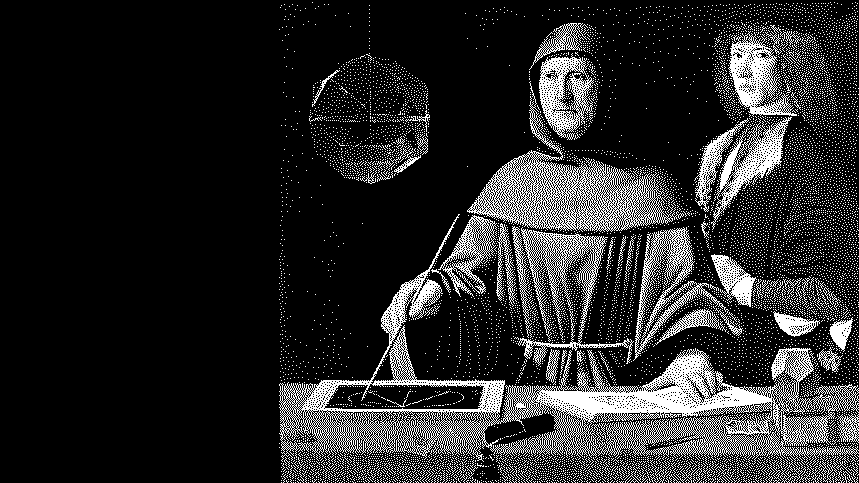
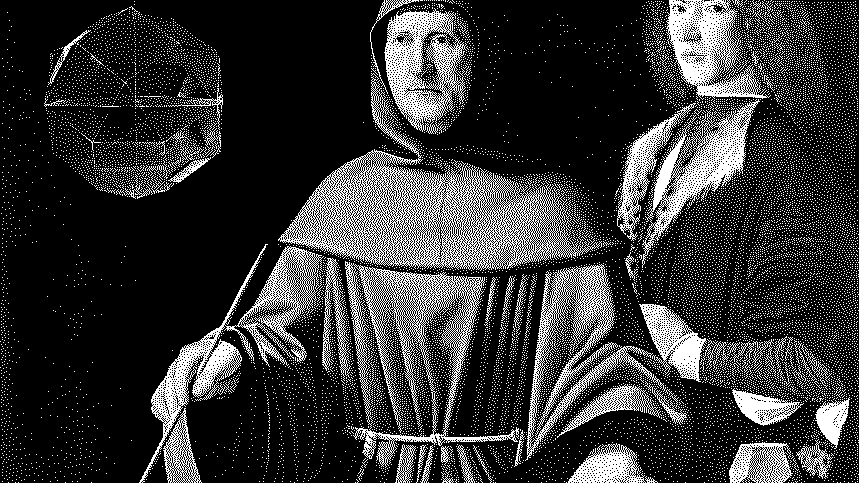
Araçlar: tuvali dolduran Pacioli kadrajı ve terminal durum satırları
- pacioli.png: soldaki siyah boşluk kaldırıldı; tablo 16:9'a kırpıldı
  (dikey merkez .44: yüzler ve polihedron tam), 859x483 tuvali doldurur
- araç kartları ve alt sayfalar: "içerik hazırlanıyor" yerine
  .recep-durum terminal satırları (Space Mono; > STATUS / // MODULE /
  [VERİ_SETİ_...])
- theme.scss: .recep-durum; kartta satırlar tek parça sığar

diff --git a/theme.scss b/theme.scss
@@ -452,6 +452,19 @@ body.nav-sidebar .recep-dhero--ince .recep-dhero-tuval img { image-rendering: au
 @media (min-width: 576px) and (max-width: 991.98px) { .recep-grid.dort { grid-template-columns: repeat(2, minmax(0, 1fr)); } }
 
 // iskelet sayfalar: kutusuz, italik not
+// araç modülleri henüz hazır değil: Katman 3 terminal durum satırları (büyük harf korunur)
+.recep-durum {
+  font-family: var(--font-terminal);
+  font-size: .78rem; line-height: 1.6; letter-spacing: .06em;
+  text-transform: none;
+  margin: .9rem 0 0;
+  p { margin: 0 0 .2rem; color: rgba($recep-ink, .5); overflow-wrap: anywhere; }
+  p:first-child { color: $recep-blue; }
+}
+.recep-card .recep-durum p { font-size: .62rem; letter-spacing: .02em; }   // en uzun satır (35 karakter) kart genişliğine sığar
+// alt sayfada durum bloğu içerik alanının ortasında, ferah
+.recep-dhero ~ .recep-durum, main > .recep-durum { margin: 1rem 0 3rem; }
+
 .recep-bekliyor {
   font-family: var(--font-editorial); font-style: italic;
   font-size: 1.05rem; color: $recep-muted;

diff --git a/memory.md b/memory.md
@@ -33,6 +33,7 @@ Kullanıcı: soluk filigran "yıkanmış, silik" — Digital Brutalism / Post-In
 - **Renk:** img `grayscale(100%) contrast(200%)`, `image-rendering: pixelated`, `mix-blend-mode` tuval zemini ile: açık `#0033FF` + `screen` (kobalt/beyaz), gece `#ECEAE4` + `multiply` (zifiri/kırık beyaz). Değişkenler `$recep-tuval-zemin`, `$recep-tuval-karisim`.
 - **Başlık:** sol alt köşeye demirli, `translateY(--baslik × .42)` ile tuvalden taşar; `<span>` zemin renginde levha (`box-decoration-break: clone`). Boyut container query: `--baslik` buyuk `clamp(3.2rem,14cqi,9rem)`, orta `clamp(2.6rem,9cqi,6rem)`. Açıklama boşluğu `--baslik × .56 + 1.25rem`.
 - **araçlar = pacioli.png** (2026-09-26): tablo 1,2:1, kullanıcı polihedron + masadaki aletlerin tam görünmesini ve 859×483 tuvali istedi → kırpılmadan 580×483 dither, siyah 859×483 tuvale sağa yaslı. `sabit = true` (alt sayfada da 16:9), `hero-meta` "> DIR_PACIOLI.exe // CALC_ENGINE_NODE". Aynı işte düzeltildi: başlık levhası artık h1 üzerinde tek blok (çok satırda satır zeminleri harfleri örtüyordu); alt sayfada `max-width: 64%`; kenar çubuklu sayfalarda (sütun ≈809 px) ince görseller yumuşak ölçeklenir.
+- **araçlar düzeltmesi** (2026-09-26): kullanıcı soldaki siyah boşluğu "bozuk" buldu → Pacioli artık 16:9 kırpım (cy .44, yüzler + polihedron tam, masa kesik), tuvali doldurur. Araç kartları ve alt sayfalarda `.recep-durum` terminal satırları (Space Mono; ilk satır mavi, diğerleri %50 mürekkep): `> STATUS: İÇERİK HAZIRLANIYOR...` / `// MODULE_IN_DEVELOPMENT` / `[VERİ_SETİ_ENTEGRASYONU_BEKLENİYOR]` — kullanıcının verdiği birebir dizeler. Markdown'da `>` ve `...` kaçışı şart (yoksa blockquote ve … olur). Bash/sed/heredoc ters eğik çizgiyi yutuyor → bu tür düzenlemeleri Edit ile yap.
 - **haberler + iletişim = ambassadors.png** (2026-09-26): Merkür kolajı "çok kötü" → geri alındı (10fe6ef). Tam tablo denendi, "çok dik" bulundu → iletişimdeki gibi 16:9 alttan kırpım (cy .36). Görsel ince taneli Floyd–Steinberg, **859×483 = tuval genişliği** (1:1, retinada 2×), sert eşik yok, çok hafif tarama satırı kayması. ESER alanları `w`, `h`, `ince = true` (→ `.recep-dhero--ince`, 1280 px altında yumuşak ölçekleme). Betik scratchpad `sanat/elciler.html`, `elciler-surucu.mjs`, `e3.json`. Ders: 1-bit görseli ekrandaki boyutuyla birebir üret; küçültme moiré yapar. Mobil testi deviceScaleFactor 3 ile yap (1× yanıltıcı derecede sert görünür).
 - **`hero-meta`** front matter: tuval üstündeki sol etiketi ezer, neon yeşil, büyük harf korunur. Başında `>` varsa YAML tek tırnak + `\>` kaçışı gerekir (yoksa pandoc blockquote sayıp siler).
 - **Navbar küresi:** Quarto `.navbar-logo { padding-right: 4px }` + border-box küreyi yumurtaya çeviriyordu → `padding:0; flex-shrink:0; aspect-ratio:1/1`. Boyut artık CSS'ten okunur (42/36 px), küçük kürede 2× süper örnekleme.

diff --git a/assets/sanat/KAYNAK.md b/assets/sanat/KAYNAK.md
@@ -23,10 +23,11 @@ Holbein asli (Google Art Project, kamu malı), 16:9 kırpım (cy .36), **859×48
 hafif keskinleştirme, yumuşak ton eğrisi (sert eşik yok), 4 ince tarama satırı kayması.
 Yeniden üretim: scratchpad `sanat/elciler.html` + `elciler-surucu.mjs` + `e3.json`.
 
-## pacioli.png — araçlar (tam tablo, 16:9 tuvale yerleştirilmiş)
+## pacioli.png — araçlar (16:9 kırpım, tuvali doldurur)
 
 Jacopo de' Barbari (atf.), *Luca Pacioli portresi*, 1495 — kamu malı. Commons: "Jacopo de' Barbari (attributed to)
 Portrait of Luca Pacioli (1445 1517) with a student (Guidobaldo da Montefeltro) (2).jpg" (3000×2500).
-Tablo 1,2:1 olduğu için **kırpılmadı**: 580×483 ince taneli Floyd–Steinberg, 859×483 siyah tuvale sağa yaslı
-(sol 279 px saf siyah; başlık bu alana oturur). Glitch yok. `sabit = true` → alt sayfalarda da 16:9.
-Yeniden üretim: scratchpad `sanat/elciler.html` + `tablo-surucu.mjs` + `pacioli.json`.
+Kullanıcı isteği (2026-09-26): boşluksuz, tuvali dolduran kadraj → 16:9 kırpım, dikey merkez .44
+(tam merkez .50 iki yüzü göz hizasından kesiyordu). Yüzler ve polihedron tam; masa alttan kesilir.
+859×483 ince taneli Floyd–Steinberg, glitch yok. `sabit = true` → alt sayfalarda da 16:9.
+Yeniden üretim: scratchpad `sanat/elciler.html` + `tablo-surucu.mjs` + `pacioli2.json`.
